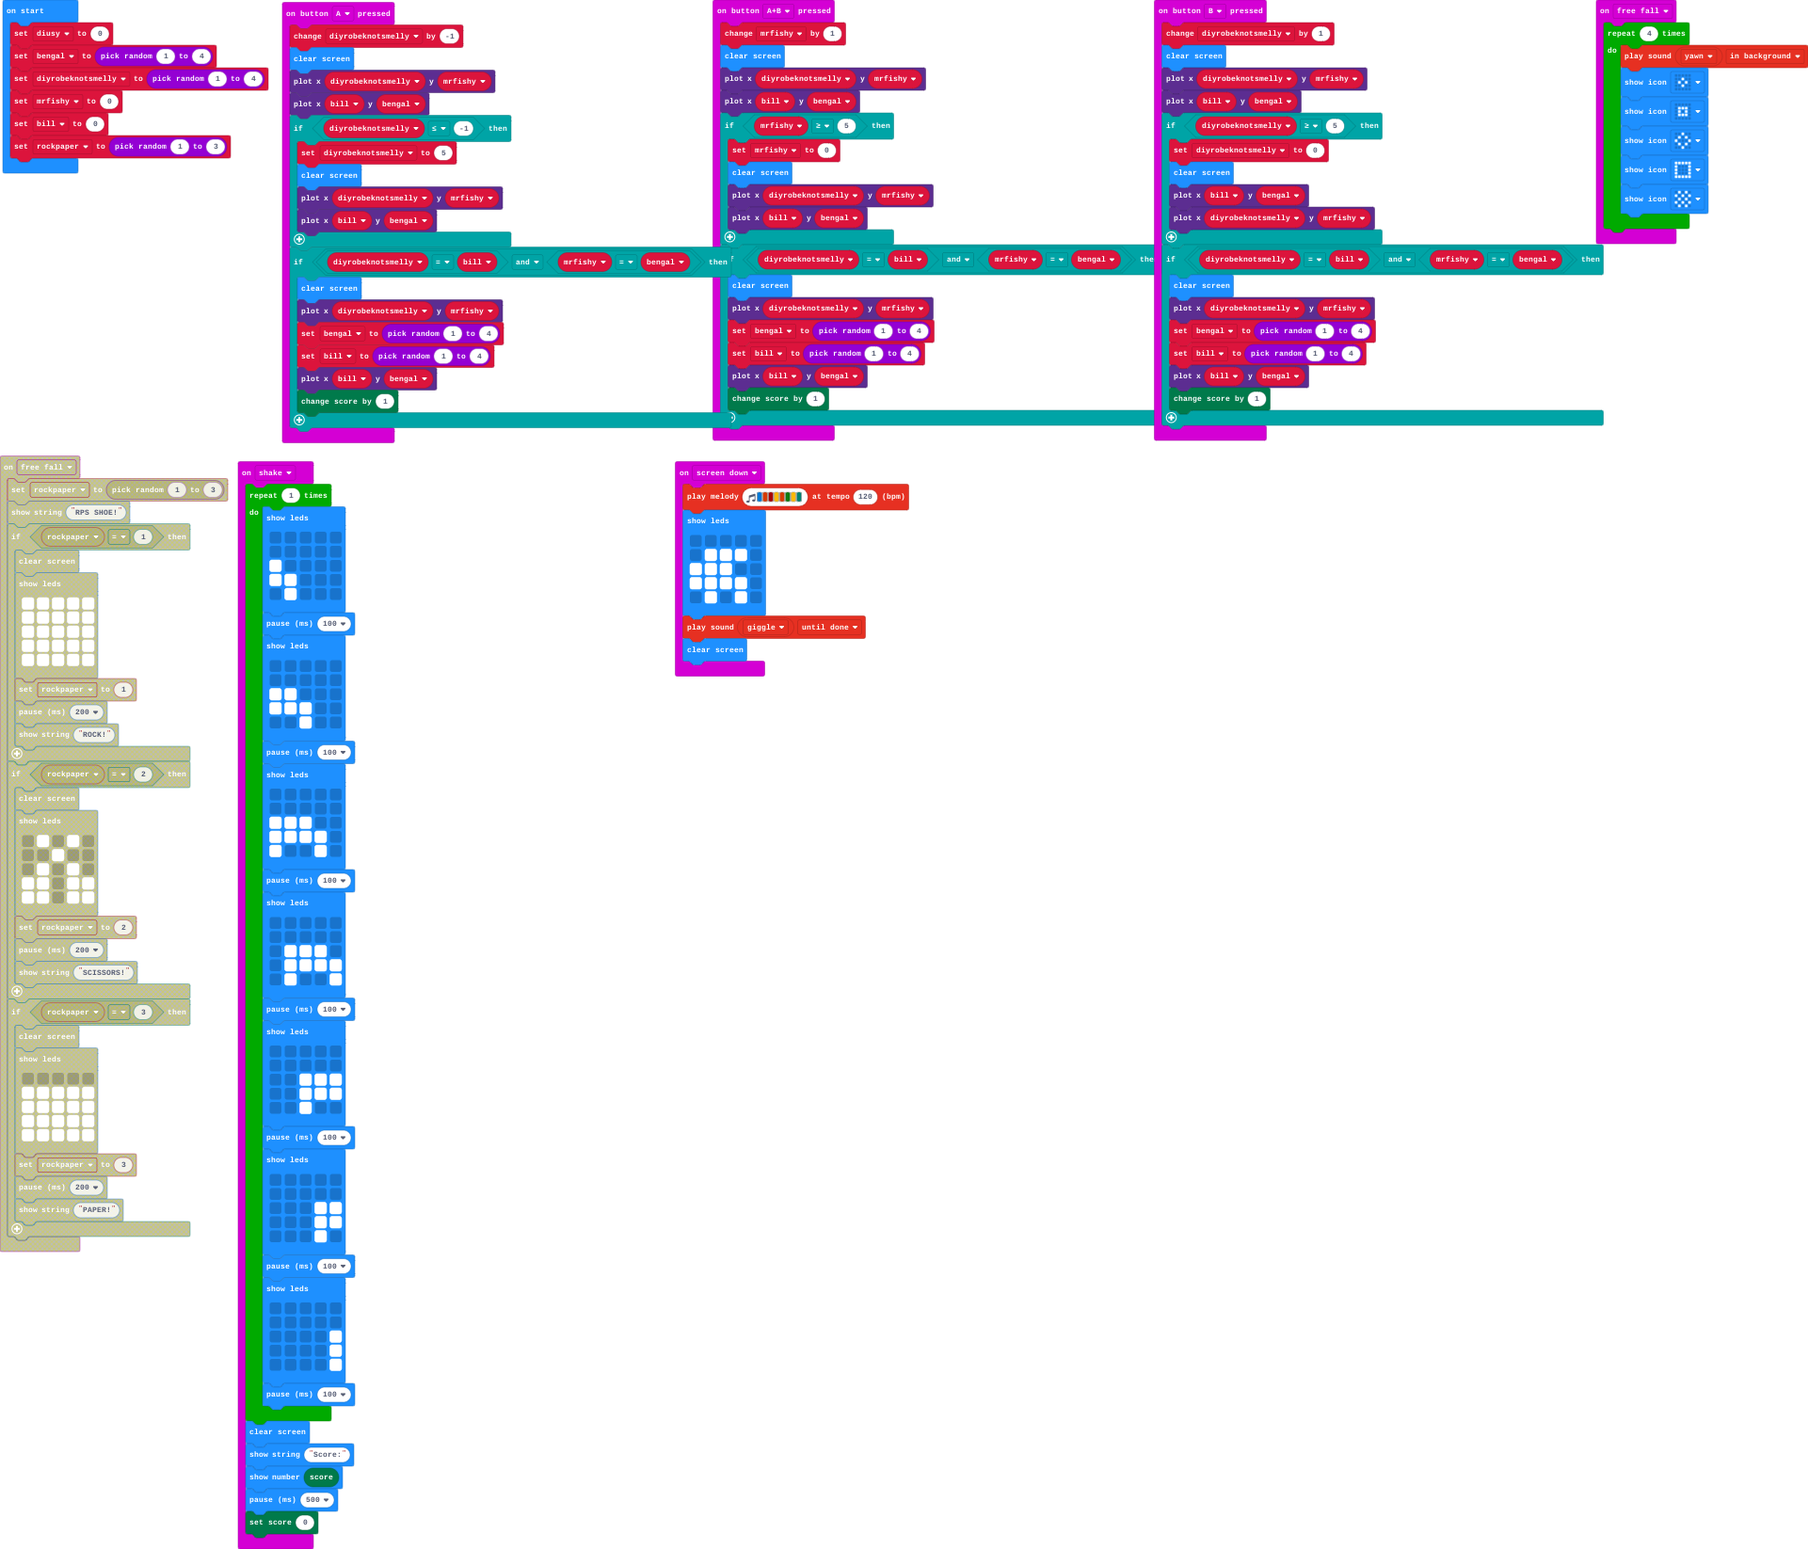
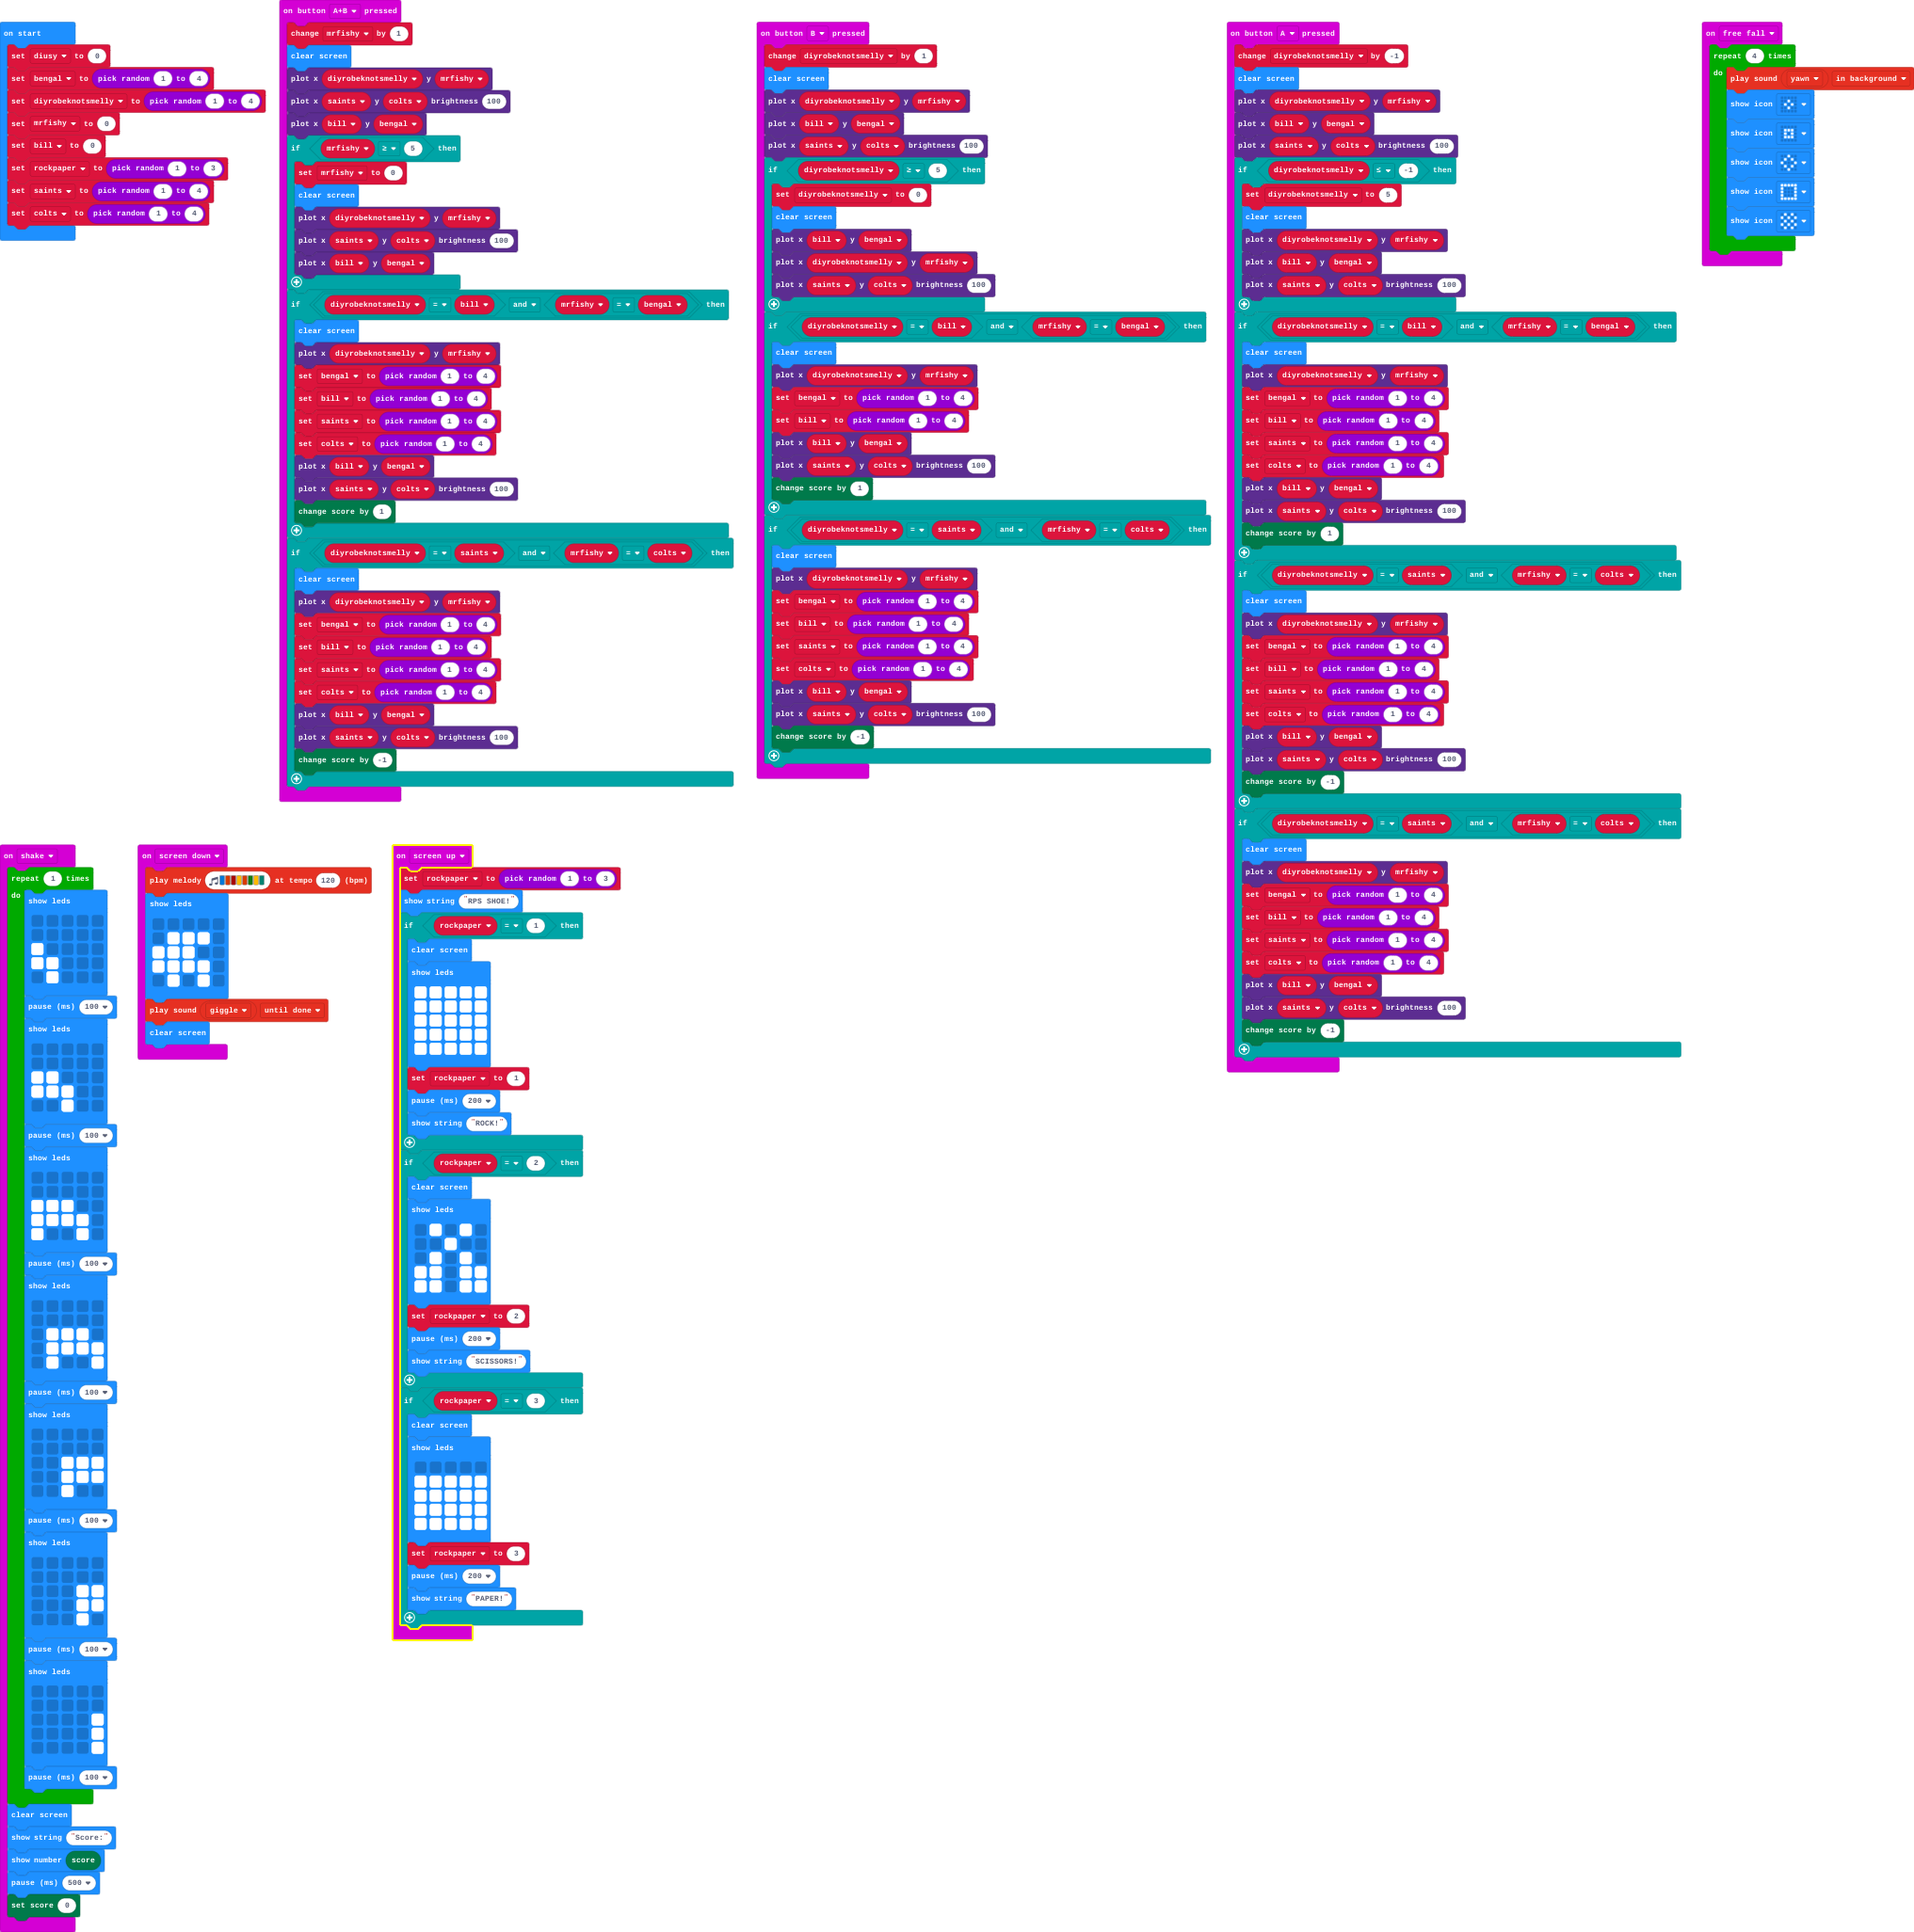
Update main.blocks, main.ts

Changed region(s): [[0.0, 0.0, 1.0, 1.0]]

diff --git a/main.ts b/main.ts
@@ -3,19 +3,46 @@ input.onButtonPressed(Button.A, function () {
     basic.clearScreen()
     led.plot(diyrobeknotsmelly, mrfishy)
     led.plot(bill, bengal)
+    led.plotBrightness(saints, colts, 100)
     if (diyrobeknotsmelly <= -1) {
         diyrobeknotsmelly = 5
         basic.clearScreen()
         led.plot(diyrobeknotsmelly, mrfishy)
         led.plot(bill, bengal)
+        led.plotBrightness(saints, colts, 100)
     }
     if (diyrobeknotsmelly == bill && mrfishy == bengal) {
         basic.clearScreen()
         led.plot(diyrobeknotsmelly, mrfishy)
         bengal = randint(1, 4)
         bill = randint(1, 4)
+        saints = randint(1, 4)
+        colts = randint(1, 4)
         led.plot(bill, bengal)
+        led.plotBrightness(saints, colts, 100)
         game.addScore(1)
+    }
+    if (diyrobeknotsmelly == saints && mrfishy == colts) {
+        basic.clearScreen()
+        led.plot(diyrobeknotsmelly, mrfishy)
+        bengal = randint(1, 4)
+        bill = randint(1, 4)
+        saints = randint(1, 4)
+        colts = randint(1, 4)
+        led.plot(bill, bengal)
+        led.plotBrightness(saints, colts, 100)
+        game.addScore(-1)
+    }
+    if (diyrobeknotsmelly == saints && mrfishy == colts) {
+        basic.clearScreen()
+        led.plot(diyrobeknotsmelly, mrfishy)
+        bengal = randint(1, 4)
+        bill = randint(1, 4)
+        saints = randint(1, 4)
+        colts = randint(1, 4)
+        led.plot(bill, bengal)
+        led.plotBrightness(saints, colts, 100)
+        game.addScore(-1)
     }
 })
 input.onGesture(Gesture.FreeFall, function () {
@@ -26,6 +53,49 @@ input.onGesture(Gesture.FreeFall, function () {
         basic.showIcon(IconNames.Diamond)
         basic.showIcon(IconNames.Square)
         basic.showIcon(IconNames.Chessboard)
+    }
+})
+input.onGesture(Gesture.ScreenUp, function () {
+    rockpaper = randint(1, 3)
+    basic.showString("RPS SHOE!")
+    if (rockpaper == 1) {
+        basic.clearScreen()
+        basic.showLeds(`
+            # # # # #
+            # # # # #
+            # # # # #
+            # # # # #
+            # # # # #
+            `)
+        rockpaper = 1
+        basic.pause(200)
+        basic.showString("ROCK!")
+    }
+    if (rockpaper == 2) {
+        basic.clearScreen()
+        basic.showLeds(`
+            . # . # .
+            . . # . .
+            . # . # .
+            # # . # #
+            # # . # #
+            `)
+        rockpaper = 2
+        basic.pause(200)
+        basic.showString("SCISSORS!")
+    }
+    if (rockpaper == 3) {
+        basic.clearScreen()
+        basic.showLeds(`
+            . . . . .
+            # # # # #
+            # # # # #
+            # # # # #
+            # # # # #
+            `)
+        rockpaper = 3
+        basic.pause(200)
+        basic.showString("PAPER!")
     }
 })
 input.onGesture(Gesture.ScreenDown, function () {
@@ -44,11 +114,13 @@ input.onButtonPressed(Button.AB, function () {
     mrfishy += 1
     basic.clearScreen()
     led.plot(diyrobeknotsmelly, mrfishy)
+    led.plotBrightness(saints, colts, 100)
     led.plot(bill, bengal)
     if (mrfishy >= 5) {
         mrfishy = 0
         basic.clearScreen()
         led.plot(diyrobeknotsmelly, mrfishy)
+        led.plotBrightness(saints, colts, 100)
         led.plot(bill, bengal)
     }
     if (diyrobeknotsmelly == bill && mrfishy == bengal) {
@@ -56,8 +128,22 @@ input.onButtonPressed(Button.AB, function () {
         led.plot(diyrobeknotsmelly, mrfishy)
         bengal = randint(1, 4)
         bill = randint(1, 4)
+        saints = randint(1, 4)
+        colts = randint(1, 4)
         led.plot(bill, bengal)
+        led.plotBrightness(saints, colts, 100)
         game.addScore(1)
+    }
+    if (diyrobeknotsmelly == saints && mrfishy == colts) {
+        basic.clearScreen()
+        led.plot(diyrobeknotsmelly, mrfishy)
+        bengal = randint(1, 4)
+        bill = randint(1, 4)
+        saints = randint(1, 4)
+        colts = randint(1, 4)
+        led.plot(bill, bengal)
+        led.plotBrightness(saints, colts, 100)
+        game.addScore(-1)
     }
 })
 input.onButtonPressed(Button.B, function () {
@@ -65,11 +151,13 @@ input.onButtonPressed(Button.B, function () {
     basic.clearScreen()
     led.plot(diyrobeknotsmelly, mrfishy)
     led.plot(bill, bengal)
+    led.plotBrightness(saints, colts, 100)
     if (diyrobeknotsmelly >= 5) {
         diyrobeknotsmelly = 0
         basic.clearScreen()
         led.plot(bill, bengal)
         led.plot(diyrobeknotsmelly, mrfishy)
+        led.plotBrightness(saints, colts, 100)
     }
     if (diyrobeknotsmelly == bill && mrfishy == bengal) {
         basic.clearScreen()
@@ -77,7 +165,19 @@ input.onButtonPressed(Button.B, function () {
         bengal = randint(1, 4)
         bill = randint(1, 4)
         led.plot(bill, bengal)
+        led.plotBrightness(saints, colts, 100)
         game.addScore(1)
+    }
+    if (diyrobeknotsmelly == saints && mrfishy == colts) {
+        basic.clearScreen()
+        led.plot(diyrobeknotsmelly, mrfishy)
+        bengal = randint(1, 4)
+        bill = randint(1, 4)
+        saints = randint(1, 4)
+        colts = randint(1, 4)
+        led.plot(bill, bengal)
+        led.plotBrightness(saints, colts, 100)
+        game.addScore(-1)
     }
 })
 input.onGesture(Gesture.Shake, function () {
@@ -145,6 +245,9 @@ input.onGesture(Gesture.Shake, function () {
     basic.pause(500)
     game.setScore(0)
 })
+let colts = 0
+let saints = 0
+let rockpaper = 0
 let bill = 0
 let mrfishy = 0
 let diyrobeknotsmelly = 0
@@ -154,4 +257,6 @@ bengal = randint(1, 4)
 diyrobeknotsmelly = randint(1, 4)
 mrfishy = 0
 bill = 0
-let rockpaper = randint(1, 3)
+rockpaper = randint(1, 3)
+saints = randint(1, 4)
+colts = randint(1, 4)
